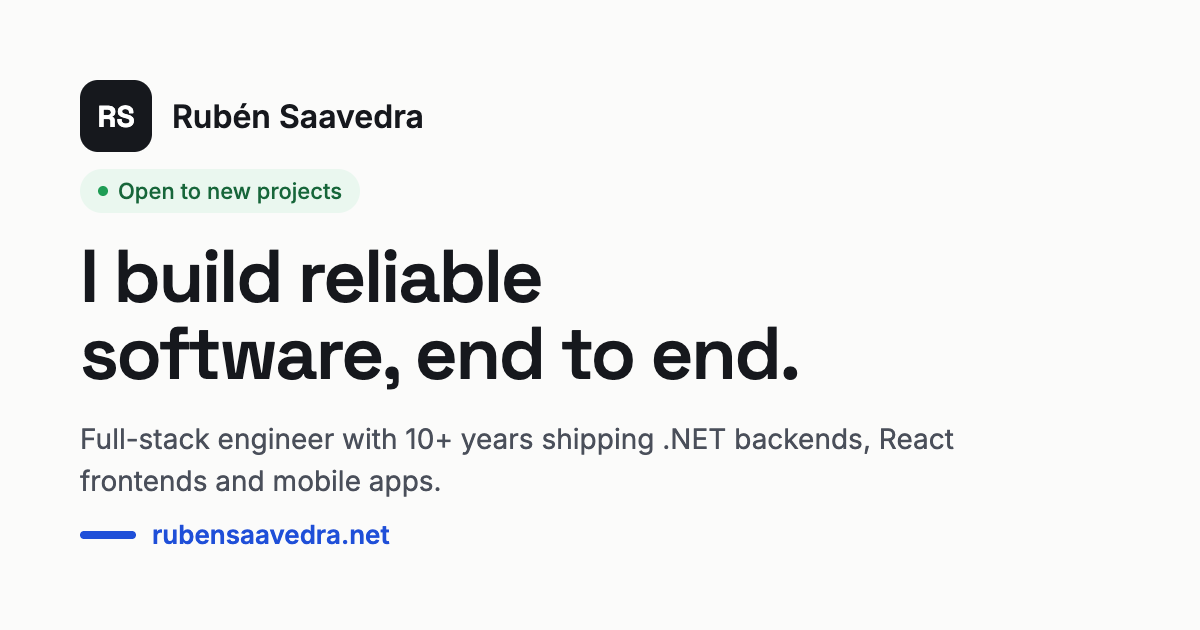
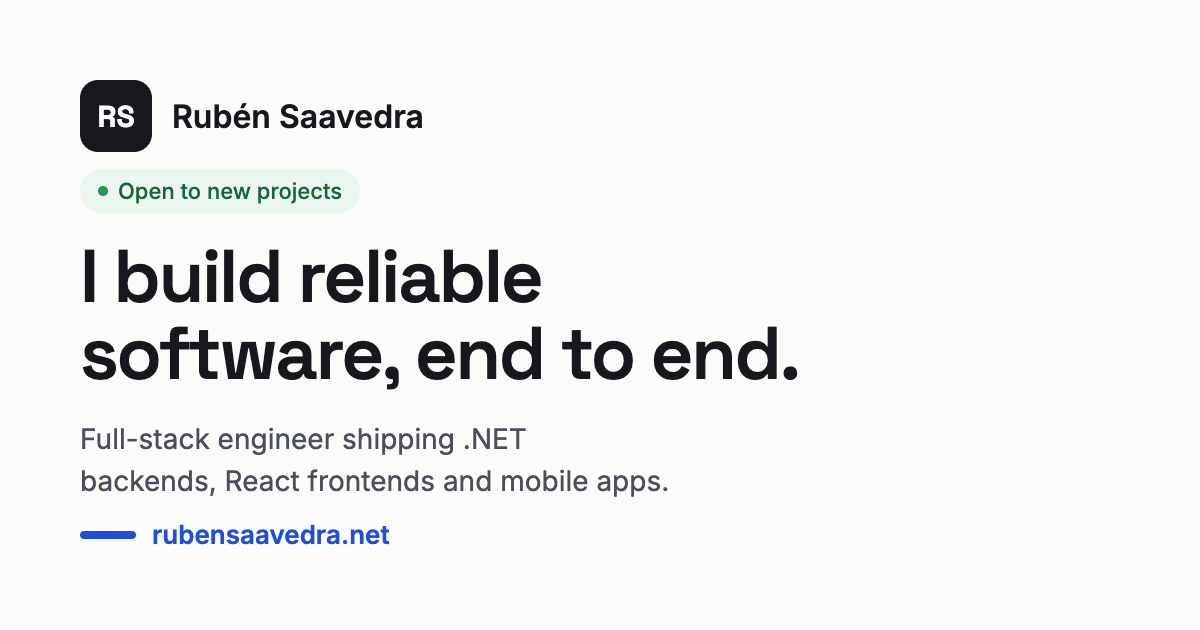
chore: regenerate social images without years of experience
- Update lead text in the social image template (EN/ES)
- Balance line wrapping of the lead
- Regenerate Open Graph images for EN and ES

Changed region(s): [[0.2775, 0.6635, 0.8017, 0.7238], [0.0617, 0.754, 0.555, 0.7841]]

diff --git a/docs/design/social-images.html b/docs/design/social-images.html
@@ -20,7 +20,7 @@
   .badge { display: inline-flex; align-self: flex-start; align-items: center; gap: 10px; padding: 9px 18px; border-radius: 999px; background: #EAF7EF; color: #17663A; font-size: 22px; font-weight: 500; }
   .dot { width: 10px; height: 10px; border-radius: 50%; background: #1F9D55; }
   h1 { margin: 0; font: 600 74px/1.04 'Space Grotesk', sans-serif; letter-spacing: -0.03em; max-width: 1000px; text-wrap: balance; }
-  .lead { margin: 0; font-size: 28px; line-height: 1.5; color: #4A4F5A; max-width: 980px; }
+  .lead { margin: 0; font-size: 28px; line-height: 1.5; color: #4A4F5A; max-width: 980px; text-wrap: balance; }
   .foot { display: flex; align-items: center; gap: 16px; font-size: 26px; font-weight: 600; color: #1F4FD8; }
   .bar { width: 56px; height: 8px; border-radius: 4px; background: #1F4FD8; }
   #card.icon { width: 180px; height: 180px; padding: 0; align-items: center; justify-content: center; background: #16181D; color: #fff; font: 700 76px 'Space Grotesk', sans-serif; letter-spacing: -0.02em; }
@@ -30,8 +30,8 @@
 <div id="card"></div>
 <script>
   const copy = {
-    en: { badge: "Open to new projects", title: "I build reliable software, end to end.", lead: "Full-stack engineer with 10+ years shipping .NET backends, React frontends and mobile apps." },
-    es: { badge: "Disponible para nuevos proyectos", title: "Construyo software confiable, de principio a fin.", lead: "Ingeniero full-stack con más de 10 años creando backends en .NET, frontends en React y apps móviles." },
+    en: { badge: "Open to new projects", title: "I build reliable software, end to end.", lead: "Full-stack engineer shipping .NET backends, React frontends and mobile apps." },
+    es: { badge: "Disponible para nuevos proyectos", title: "Construyo software confiable, de principio a fin.", lead: "Ingeniero full-stack que entrega backends en .NET, frontends en React y apps móviles." },
   };
   const params = new URLSearchParams(location.search);
   const card = document.getElementById("card");
